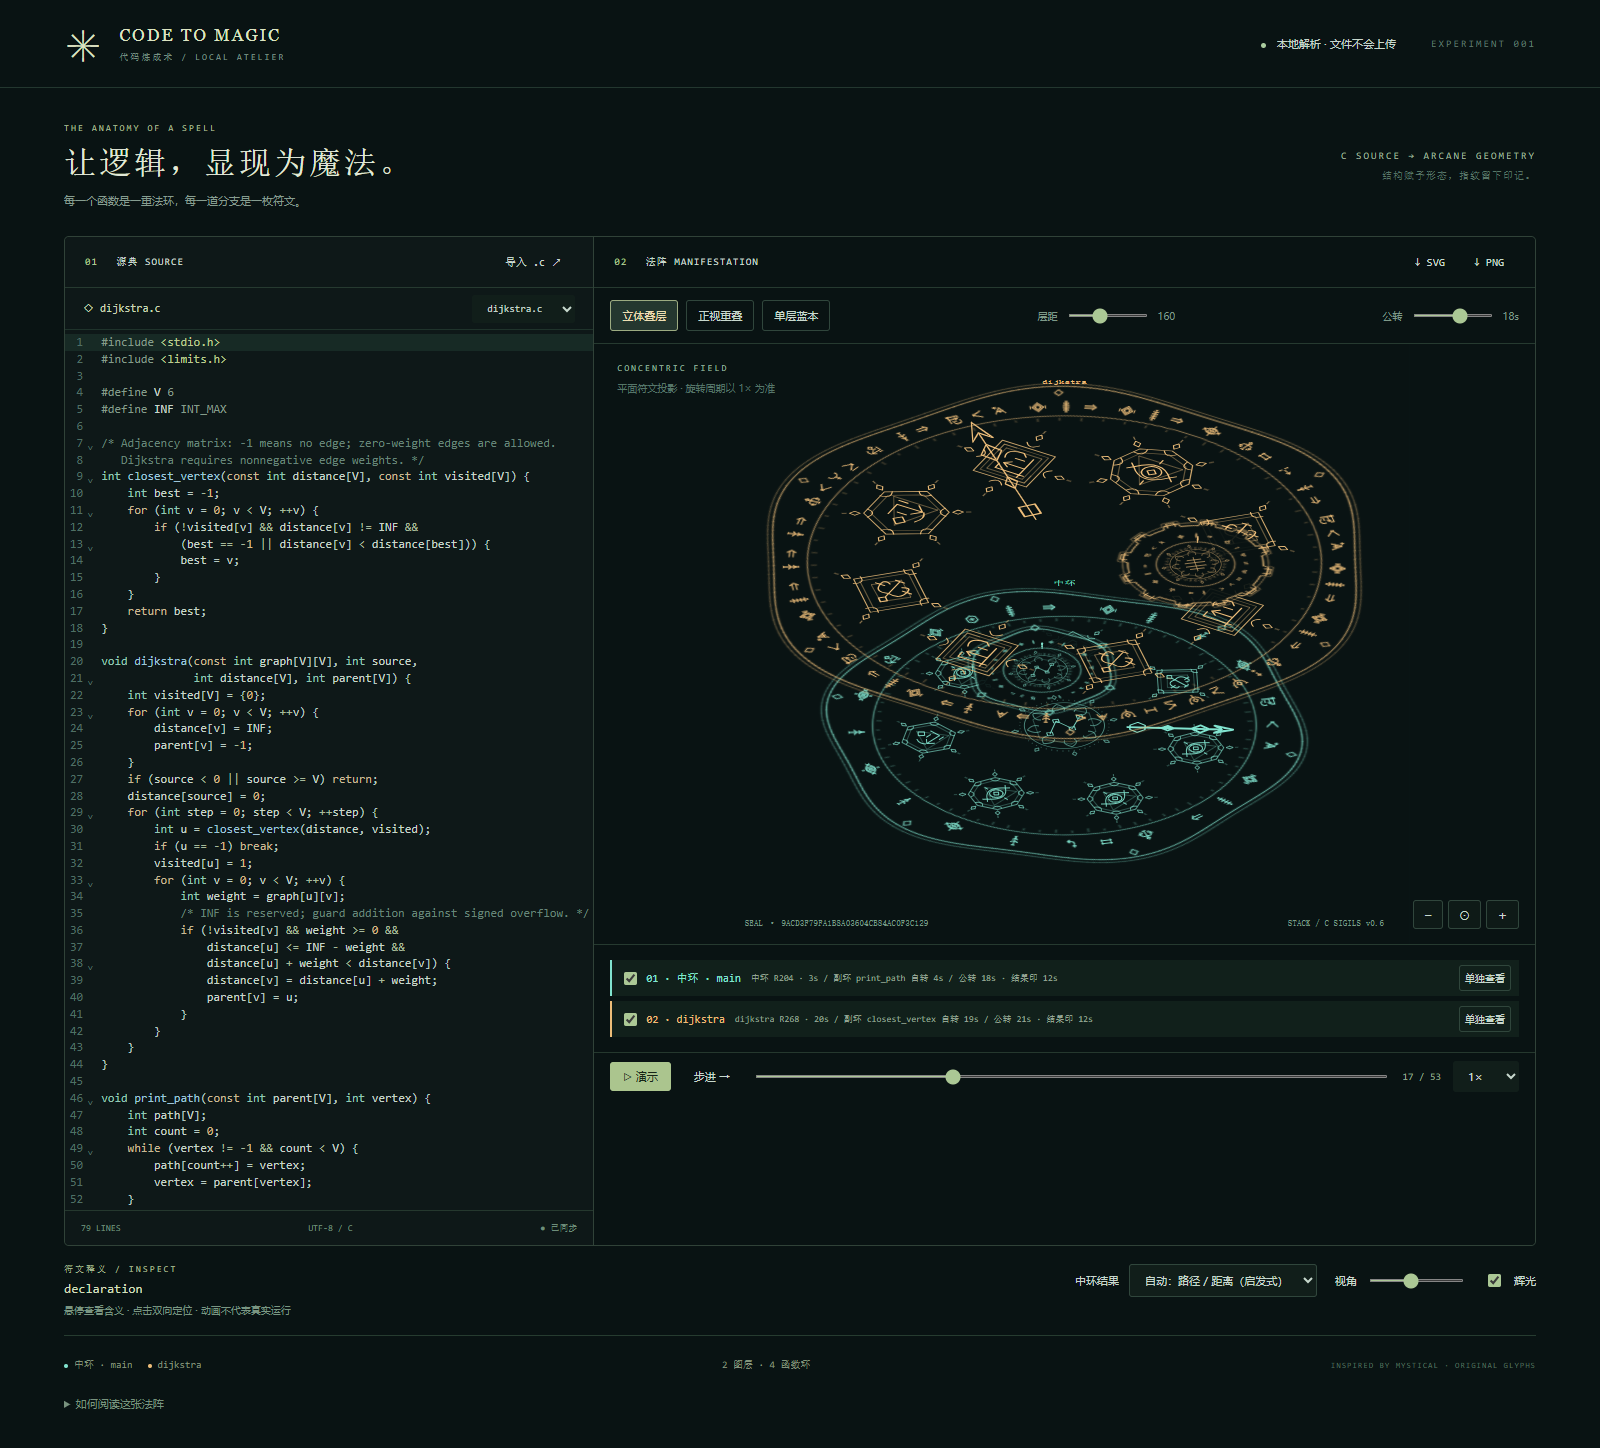
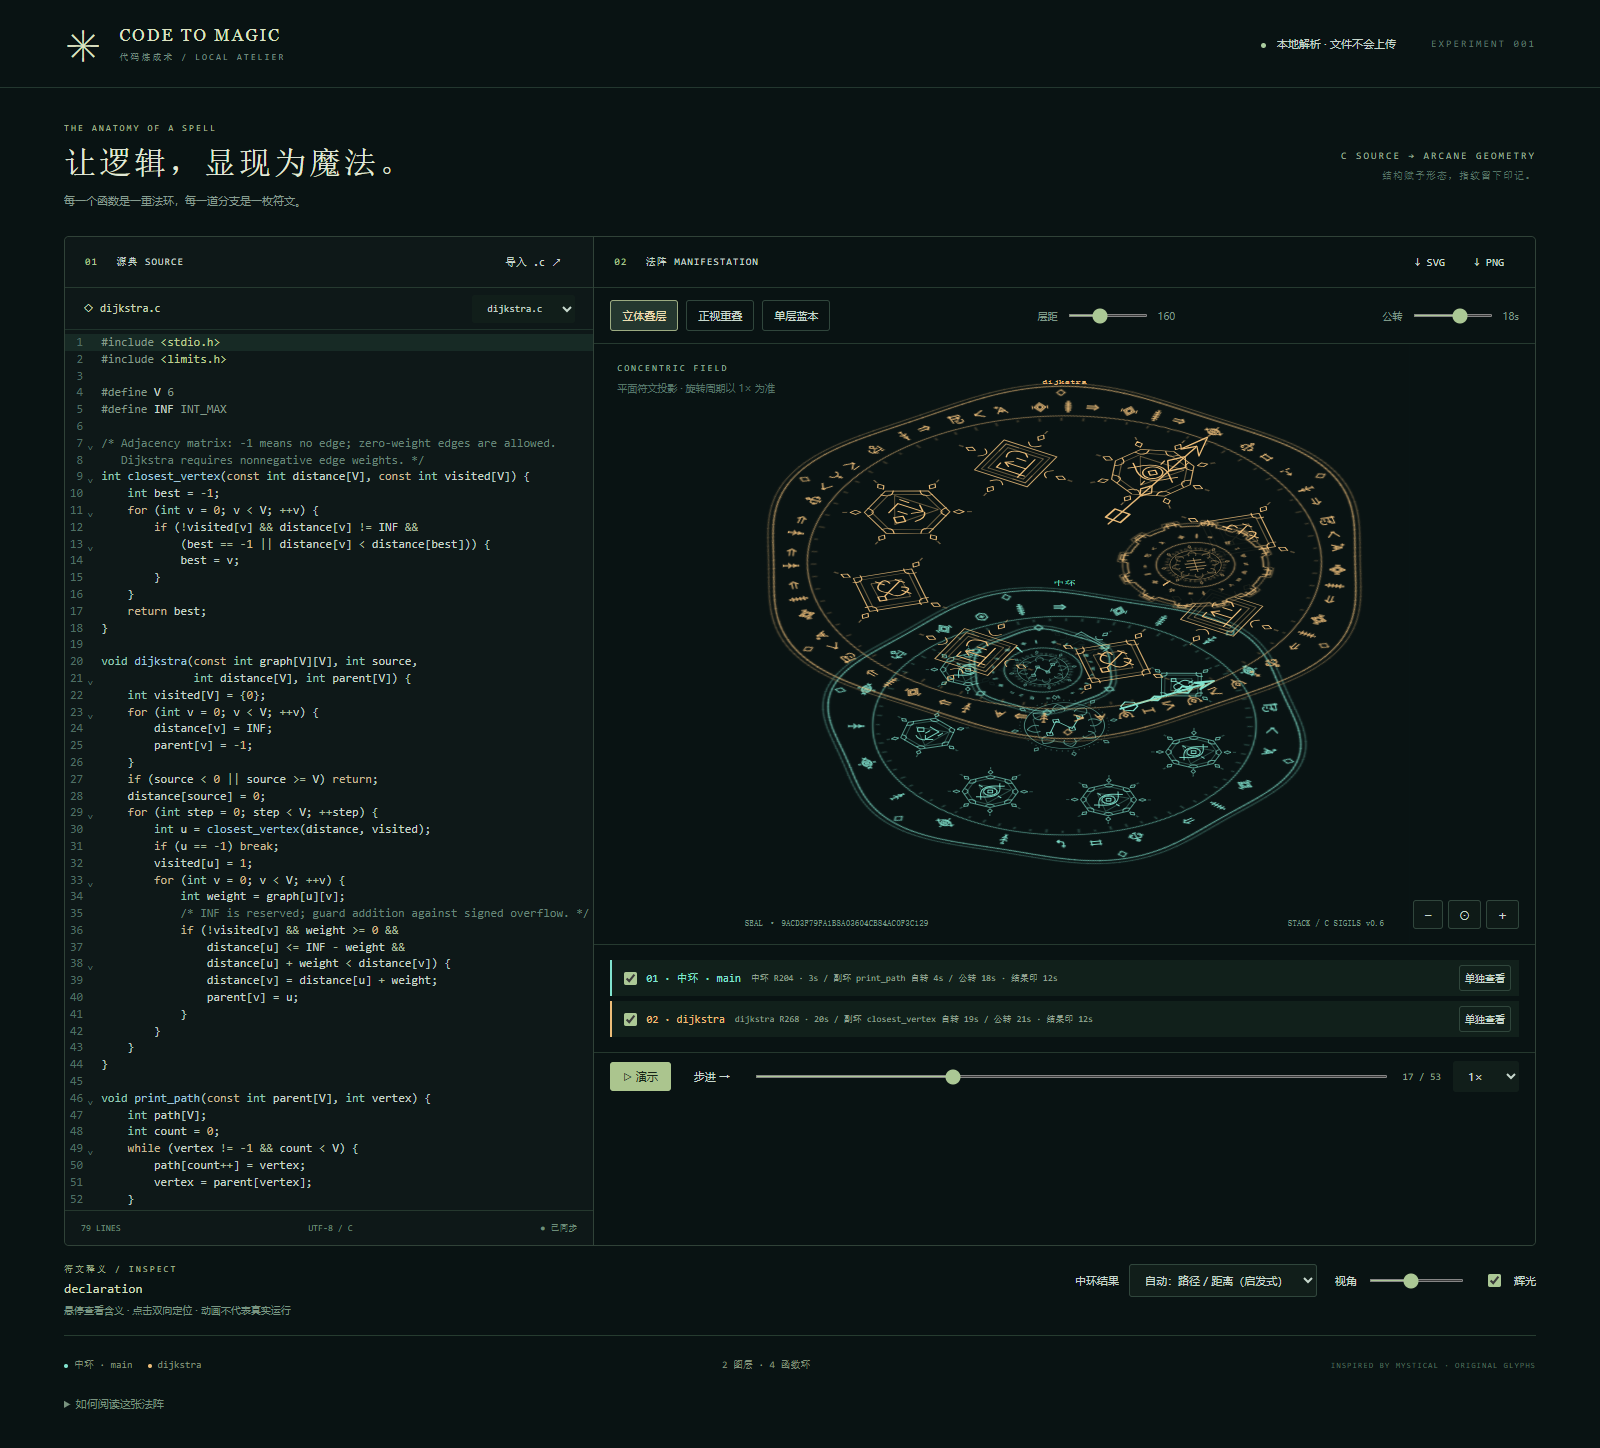
fix: hold magic hands on runes in rotating ring coordinates

diff --git a/src/main.tsx b/src/main.tsx
@@ -46,7 +46,7 @@ function App(){
  {error&&<div role="alert" className="error">{error}</div>}
  {!!model?.diagnostics.length&&<div className="error" role="status">部分语法尚不完整：{model.diagnostics.slice(0,8).map((d,i)=><button key={i} onClick={()=>setSelected({id:'error',kind:'ERROR',label:'语法错误',range:d,depth:0,family:'general',pointers:0})}>第 {d.line} 行</button>)}。法阵保留可解析部分。</div>}
  <footer><div className="legend">{planes.map(l=><span key={l.id}><i style={{background:l.color}}/>{l.name}</span>)}</div><span>{planes.length} 图层 · {model?.functions.length||0} 函数环</span><small>INSPIRED BY MYSTICAL · ORIGINAL GLYPHS</small></footer>
- <details><summary>如何阅读这张法阵</summary><p>每层来自同一平面蓝本，立体视图将整层一起倾斜与平移，正视图消除层距。不同颜色代表不同图层。简单函数（不超过 12 个结构节点、无分支循环与内部调用）共面并用半径区分，小型单调用者叶函数改为调用者的副环，递归与共享函数仍独立。主环使用实际 SVG 符文宽度、可读字距、徽章与副环占用约束自动求紧凑半径（R），长表达式按实际符文宽度分配圆弧。层距可在 0–420 间自由调整，允许投影交叠；画布自动适配层间高度。内层重要节点按邻近节点与边界空白自适应放大。主副环周期分布在 3–20 秒，同层主副环周期差不超过 5 秒；副环独立公转为 7–25 秒，中心以函数结果类型印替代名称（静态启发式），名称保留在悬停和图层面板。中心结果印例外，只保留中环（main）的中心结果印，其他同心主环省略中心，副环保留各自结果印，周期为 12 秒；速度倍率会同比改变实际周期。点击“演示”启动指针，函数环持续自转，调用挂起只冻结表针方向；暂停冻结当前帧，SVG / PNG 导出当前视图。</p><p>线条符文由 C 关键字及运算符组合：分叉代表条件、回环代表循环、收束代表返回。选中调用节点时显示调用虚线，闭环表示递归。条件使用菱形，计数循环用方形，条件循环用透镜形，后置循环用三角，选择结构用六边形。每个独立环的外轮廓依据自身结果类型：路径为六瓣冠、数值为齿轮、文本为双叶框、集合为蜂巢、判定为四向冠，未分类为八瓣环。同类型共享视觉语法；中环下拉选项只改变中环，不改变其他函数。结果类型自动判别仅依据函数名、返回类型与 API 特征，不是运行推断，可以手动覆盖。演示为静态结构遍历，不执行 C 代码；中环短时针、副环短秒针常驻，分层函数的中分针在调用栈内显示。指针平滑指向当前语句，调用者停在调用位置等待返回，速度跟随演示倍率；外部调用和递归回路短暂停留。分支展示所有替代路径，循环只展开一次。宏不会展开，函数指针调用不解析目标。</p><div className="sigil-catalog">{Object.entries(sigils).slice(0,44).map(([k,s])=><div key={k}><svg viewBox="-20 -20 40 40"><path d={s.path} fill="none" stroke="currentColor" strokeWidth="1.2"/></svg><span>{k}<small>{s.meaning}</small></span></div>)}</div><p>微观刻度来自 UTF-8 文件内容的 SHA-256；图像不是无损代码编码，完整指纹可用于核对。</p><code>{model?.sourceHash}</code>{!!model?.directives.length&&<p>预处理指令：{model.directives.join(' · ')}</p>}</details>
+ <details><summary>如何阅读这张法阵</summary><p>每层来自同一平面蓝本，立体视图将整层一起倾斜与平移，正视图消除层距。不同颜色代表不同图层。简单函数（不超过 12 个结构节点、无分支循环与内部调用）共面并用半径区分，小型单调用者叶函数改为调用者的副环，递归与共享函数仍独立。主环使用实际 SVG 符文宽度、可读字距、徽章与副环占用约束自动求紧凑半径（R），长表达式按实际符文宽度分配圆弧。层距可在 0–420 间自由调整，允许投影交叠；画布自动适配层间高度。内层重要节点按邻近节点与边界空白自适应放大。主副环周期分布在 3–20 秒，同层主副环周期差不超过 5 秒；副环独立公转为 7–25 秒，中心以函数结果类型印替代名称（静态启发式），名称保留在悬停和图层面板。中心结果印例外，只保留中环（main）的中心结果印，其他同心主环省略中心，副环保留各自结果印，周期为 12 秒；速度倍率会同比改变实际周期。点击“演示”启动指针，函数环持续自转，调用挂起时表针锁定当前符文并随环旋转；暂停冻结当前帧，SVG / PNG 导出当前视图。</p><p>线条符文由 C 关键字及运算符组合：分叉代表条件、回环代表循环、收束代表返回。选中调用节点时显示调用虚线，闭环表示递归。条件使用菱形，计数循环用方形，条件循环用透镜形，后置循环用三角，选择结构用六边形。每个独立环的外轮廓依据自身结果类型：路径为六瓣冠、数值为齿轮、文本为双叶框、集合为蜂巢、判定为四向冠，未分类为八瓣环。同类型共享视觉语法；中环下拉选项只改变中环，不改变其他函数。结果类型自动判别仅依据函数名、返回类型与 API 特征，不是运行推断，可以手动覆盖。演示为静态结构遍历，不执行 C 代码；中环短时针、副环短秒针常驻，分层函数的中分针在调用栈内显示。指针平滑指向当前语句，调用者停在调用位置等待返回，速度跟随演示倍率；外部调用和递归回路短暂停留。分支展示所有替代路径，循环只展开一次。宏不会展开，函数指针调用不解析目标。</p><div className="sigil-catalog">{Object.entries(sigils).slice(0,44).map(([k,s])=><div key={k}><svg viewBox="-20 -20 40 40"><path d={s.path} fill="none" stroke="currentColor" strokeWidth="1.2"/></svg><span>{k}<small>{s.meaning}</small></span></div>)}</div><p>微观刻度来自 UTF-8 文件内容的 SHA-256；图像不是无损代码编码，完整指纹可用于核对。</p><code>{model?.sourceHash}</code>{!!model?.directives.length&&<p>预处理指令：{model.directives.join(' · ')}</p>}</details>
  </main></div>;
 }
 createRoot(document.getElementById('root')!).render(<React.StrictMode><App/></React.StrictMode>);

diff --git a/src/SceneV3.tsx b/src/SceneV3.tsx
@@ -40,9 +40,9 @@ export function Scene({model,timeline,time,step,selected,onSelect,onHover,expand
    const handKind:HandKind=r.satellite?'second':r.fn.id===centerOwner?.id?'hour':'minute';
    const showHand=handKind!=='minute'||playback.stack.includes(r.fn.id);
    const waiting=playback.stack.includes(r.fn.id)&&(playback.activeFn!==r.fn.id||current?.kind==='wait');
-   // Ring spin uses scene time; the hand uses only its function's active clock.
-   // Calls therefore hold the hand's direction without stopping the ring.
-   return {...r,plane:l,layout,angle,features:featureLayout(nodes,r.radius),handKind,showHand,waiting,handAngle:localAngle+rotationAt(playback.clocks[r.fn.id]||0,r.period)};
+   // Hold the current rune in ring-local coordinates during a call; the
+   // shared ring rotation carries both the rune and its hand together.
+   return {...r,plane:l,layout,angle,features:featureLayout(nodes,r.radius),handKind,showHand,waiting,handAngle:localAngle+angle};
   });
  });
  const seal=resultSeals[resultKind];

diff --git a/tests/clock_hands.py b/tests/clock_hands.py
@@ -24,26 +24,32 @@ with sync_playwright() as p:
     def hand(name): return page.locator(f'[data-hand-function="{name}"]')
     def angle(name): return float(hand(name).get_attribute('data-hand-angle'))
     def ring_angle(name): return page.locator(f'[data-function-ring="{name}"]').get_attribute('transform')
+    def relative_angle(name):
+        return hand(name).evaluate('''h=>{
+          const ring=h.closest('[data-ring-container]').querySelector('[data-function-ring]');
+          return +h.dataset.handAngle-parseFloat(ring.getAttribute('transform').slice(7));
+        }''')
     slider.fill(str(child))
     assert page.locator('[data-magic-hand="minute"]').count()==1
-    main_before=angle('main');minute_before=angle('dijkstra')
+    main_before=relative_angle('main');main_world_before=angle('main');minute_before=angle('dijkstra')
     main_ring_before=ring_angle('main')
     page.get_by_role('button',name='▷ 演示').click()
     page.wait_for_timeout(250)
-    assert angle('main')==main_before
+    assert abs(relative_angle('main')-main_before)<1e-7
+    assert angle('main')!=main_world_before
     assert ring_angle('main')!=main_ring_before
     assert angle('dijkstra')!=minute_before
     page.get_by_role('button',name='Ⅱ 暂停').click()
     held=angle('dijkstra');page.wait_for_timeout(150);assert angle('dijkstra')==held
     slider.fill(str(leaf))
-    held_main=angle('main');held_minute=angle('dijkstra');second=angle('closest_vertex')
+    held_main=relative_angle('main');held_minute=relative_angle('dijkstra');second=angle('closest_vertex')
     minute_ring_before=ring_angle('dijkstra')
     page.get_by_role('button',name='▷ 演示').click()
     samples=page.evaluate('''async()=>{const values=[];for(let i=0;i<10;i++){await new Promise(requestAnimationFrame);values.push(+document.querySelector('[data-hand-function="closest_vertex"]').dataset.handAngle);}return values;}''')
     assert len(set(samples))>=3, samples
     assert all(abs((b-a+180)%360-180)<30 for a,b in zip(samples,samples[1:]))
     assert angle('closest_vertex')!=second
-    assert angle('main')==held_main and angle('dijkstra')==held_minute
+    assert abs(relative_angle('main')-held_main)<1e-7 and abs(relative_angle('dijkstra')-held_minute)<1e-7
     assert ring_angle('dijkstra')!=minute_ring_before
     page.get_by_role('button',name='Ⅱ 暂停').click()
     # The exported pointer pose must match the SVG displayed in the app.
@@ -51,10 +57,11 @@ with sync_playwright() as p:
     slider.fill(str(after));assert page.locator('[data-magic-hand="minute"]').count()==0
     assert page.locator('[data-magic-hand="second"]').count()==2
     external_wait=next(e['i'] for e in events if e['name']=='print_path' and e['kind']=='wait')
-    slider.fill(str(external_wait));held_second=angle('print_path')
+    slider.fill(str(external_wait));held_second=relative_angle('print_path');second_world_before=angle('print_path')
     second_ring_before=ring_angle('print_path')
     page.get_by_role('button',name='▷ 演示').click();page.wait_for_timeout(100)
-    assert angle('print_path')==held_second
+    assert abs(relative_angle('print_path')-held_second)<1e-7
+    assert angle('print_path')!=second_world_before
     assert ring_angle('print_path')!=second_ring_before
     page.get_by_role('button',name='Ⅱ 暂停').click()
     assert page.locator('[data-node] circle[stroke]:not([stroke="none"])').count()==0
